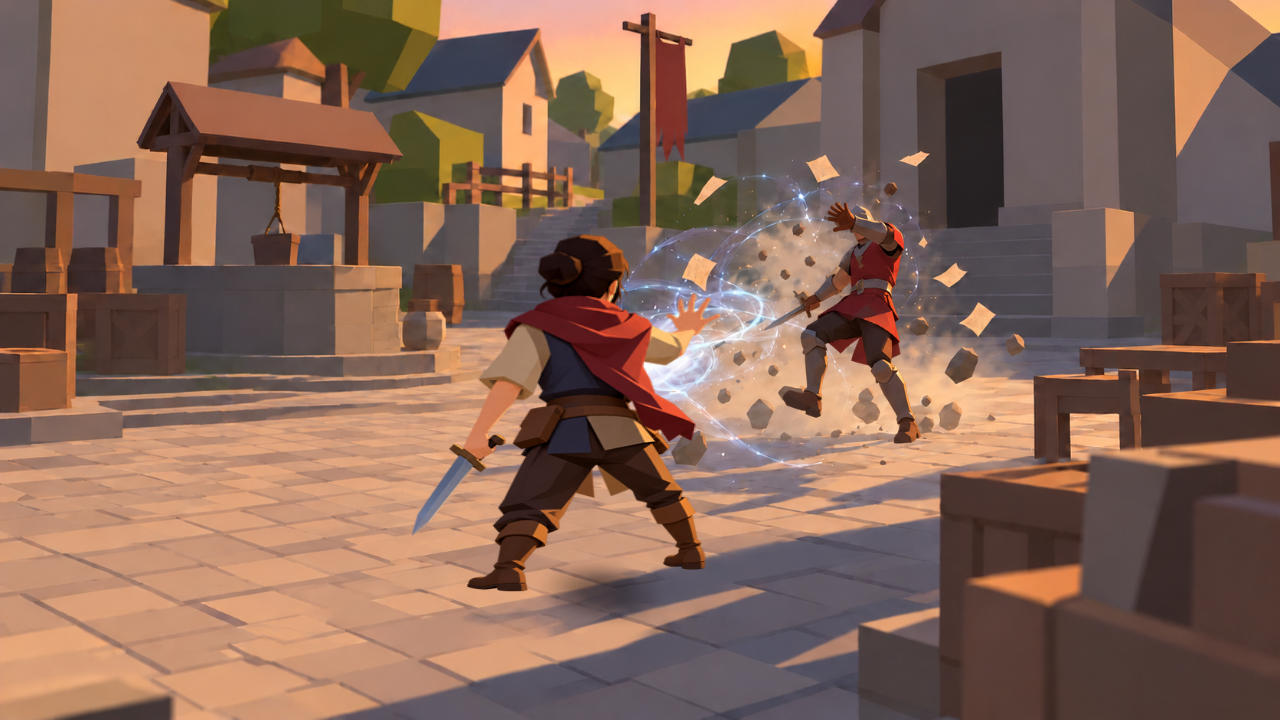
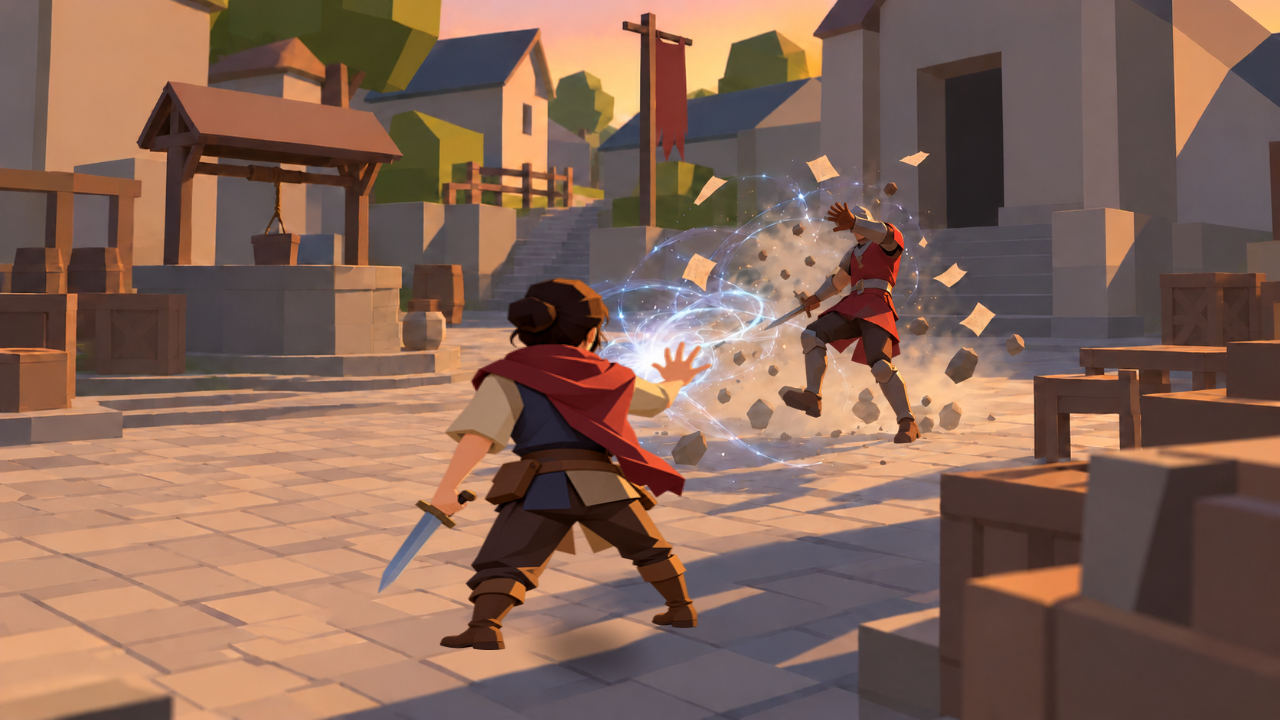
Refine arena bounds and visual review

Changed region(s): [[0.2812, 0.3056, 0.5625, 0.9472]]

diff --git a/PLAN.md b/PLAN.md
@@ -22,10 +22,10 @@ The project already has a player controller and earlier gameplay code. The visua
 | Done | Duel plate and static opponent | `game/art/village_duel_empty.png` retains the village and fixed magic without any character. `game/art/opponent_static.png` is a transparent, independent static pose. The earlier combined plate remains as a reference. |
 | Done | Duel arena and boundary | `game/art/arena_paving.glb` covers the duel floor with fixed-view paving color. An invisible 3D collision ring contains the protagonist and future 3D combatants. |
 | In review | Protagonist | The approved raised-hand pose remains the rear idle view. Matching front and side poses and two strides per direction appear in the [idle capture](docs/visual-progress/protagonist-motion-idle.png) and [walk capture](docs/visual-progress/protagonist-motion-walk.png). The earlier 3D model remains in the playable prototype. |
-| In review | Foot contact and framing | The illustrated poses share a foot baseline and contact shadow. The walk ellipse now uses the empty left paving while keeping the protagonist out of the opponent's staging area. Longer movement still needs a player review for the limited frame count and static background perspective. |
+| In review | Foot contact and framing | The illustrated poses share a foot baseline and contact shadow. The larger arena lets the protagonist approach the opponent while keeping her clear of the village props. Longer movement and close combat still need a player review for the limited frame count, fixed opponent layer, and static background perspective. |
 | Later, only if needed | UI | Add a small objective/health overlay after the protagonist comparison passes. |
 
-The original plate was produced with the built-in image generation edit tool from the user's local annotated reference. Its prompt was: preserve the exact village composition, architecture, people, magic, light and paving; remove the black oval, red note, foreground protagonist and HUD; reconstruct exposed paving; add no text or new objects. The duel edit removes only the green-clothed woman, gray-haired book holder, and blue-robed man while retaining the opponent, magic, camera, and sunset palette. The illustrated protagonist was generated from the same local reference as a transparent foreground cutout. The original reference is local and ignored by Git; the selected game-ready images are versioned under `game/art/`. Experimental production files remain local and unversioned.
+The original plate was produced with the built-in image generation edit tool from the user's local annotated reference. Its prompt was: preserve the exact village composition, architecture, people, magic, light and paving; remove the black oval, red note, foreground protagonist and HUD; reconstruct exposed paving; add no text or new objects. The first duel edit removed the three bystanders; a later pass separated the opponent into a transparent layer over the empty duel plate. The illustrated protagonist was generated from the same local reference as a transparent foreground cutout. The original reference is local and ignored by Git; the selected game-ready images are versioned under `game/art/`. Experimental production files remain local and unversioned.
 
 ## Production sequence and review gates
 
